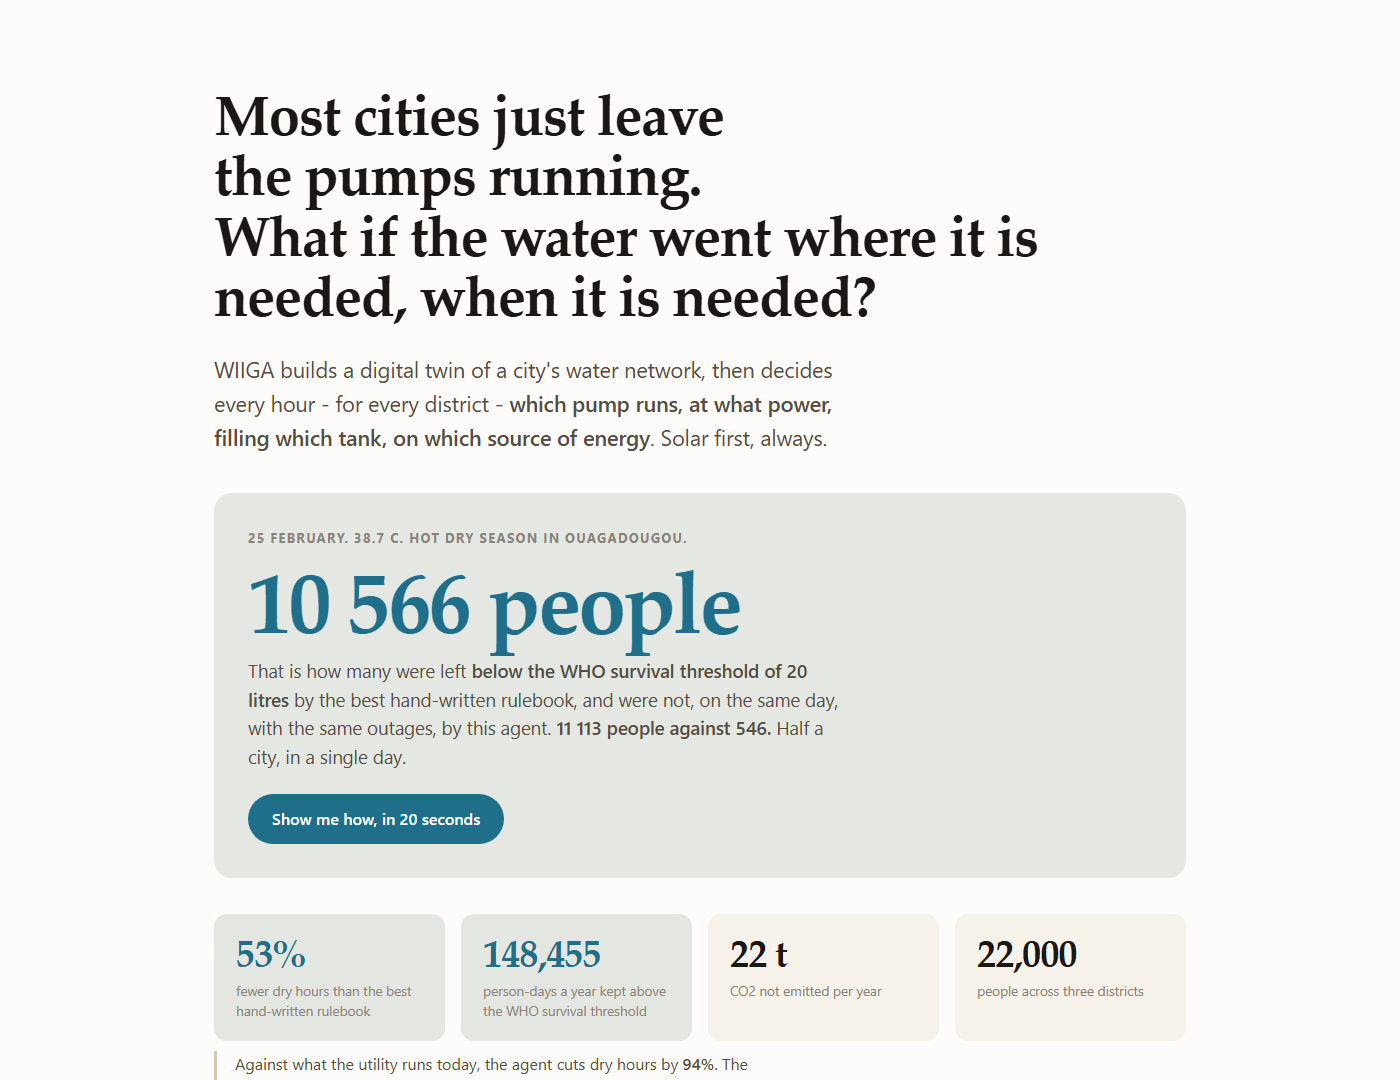
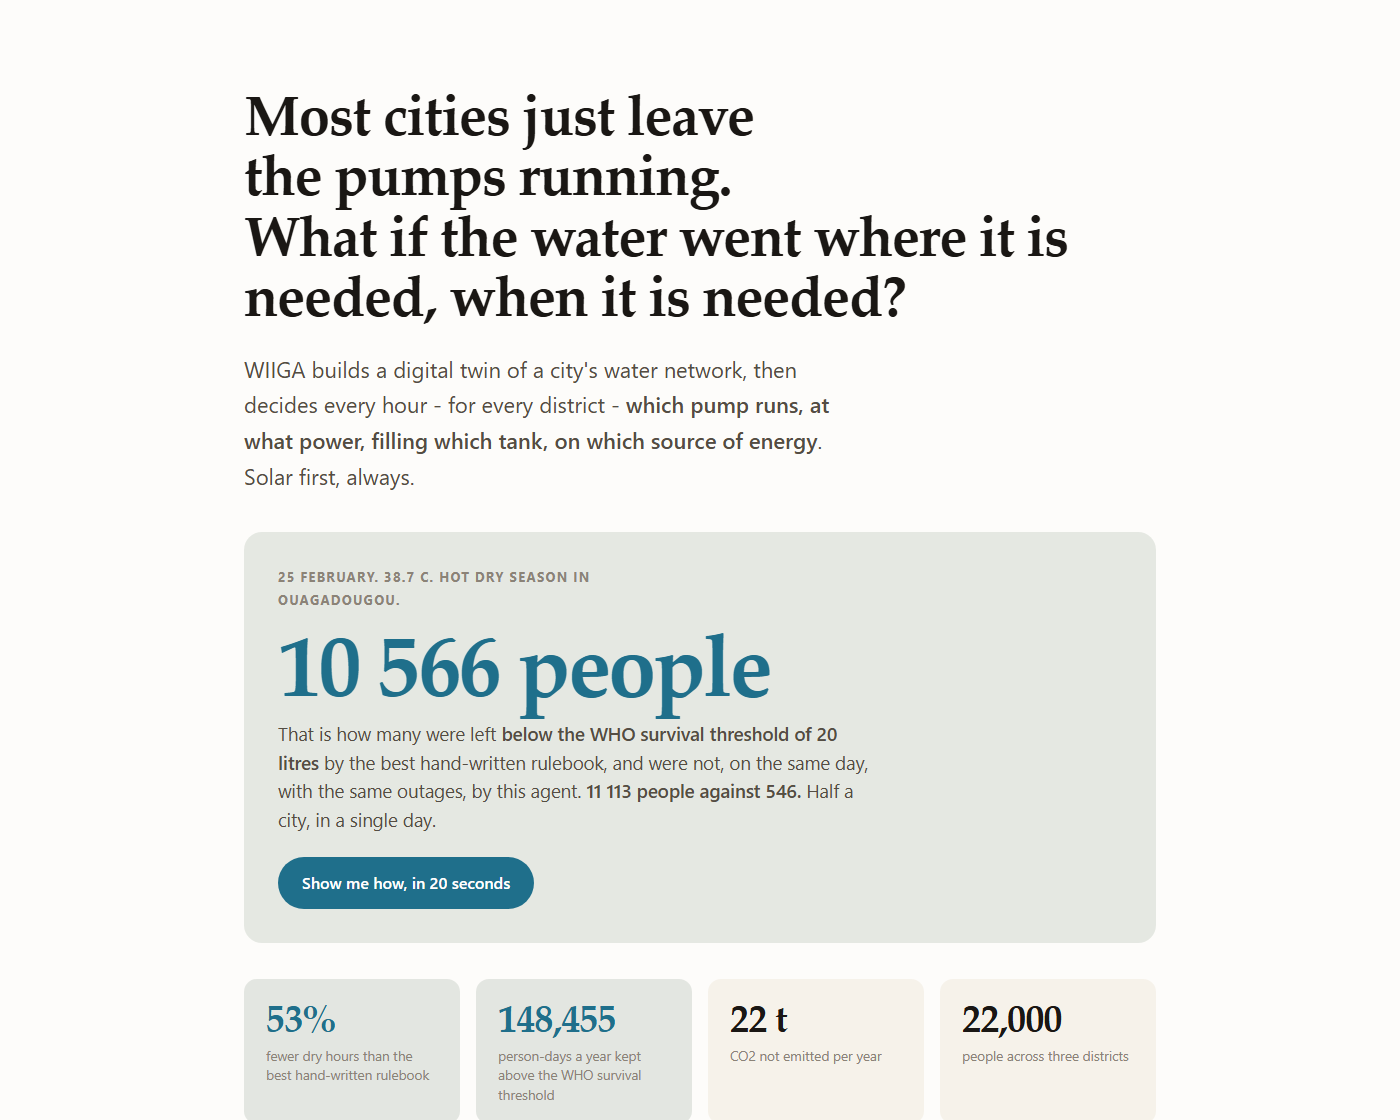
Rendre tout lisible par un humain presse
Le pire obstacle etait invisible pour moi : les tableaux du README
affichaient les noms francais des politiques dans un document anglais. Un
lecteur tombait sur 'exploitant (consigne fixe)' au milieu d'une ligne de
chiffres. Traduits - 'what the utility runs today', 'hand-written
rulebook', 'WIIGA agent'.

Typographie : corps a 18 px, interligne 1,75, mesure ramenee a 58
caracteres, tableaux et legendes agrandis, respiration doublee entre les
sections.

Et les trois paragraphes les plus denses coupes en respirations courtes -
la parole, les saisons, le jumeau. Une idee par paragraphe, les chiffres
en gras au debut de la phrase et pas noyes au milieu.

diff --git a/demo/gabarit.html b/demo/gabarit.html
@@ -20,24 +20,26 @@
   *{box-sizing:border-box}
   html{scroll-behavior:smooth}
   body{margin:0;background:var(--paper);color:var(--ink);font-family:var(--sans);
-       font-size:17px;line-height:1.68;-webkit-font-smoothing:antialiased}
-  .sheet{max-width:1060px;margin:0 auto;padding:clamp(36px,6vw,88px) clamp(20px,4vw,44px) 120px}
+       font-size:18px;line-height:1.75;-webkit-font-smoothing:antialiased;
+       text-rendering:optimizeLegibility}
+  .sheet{max-width:1000px;margin:0 auto;padding:clamp(36px,6vw,88px) clamp(20px,4vw,44px) 120px}
 
   h1{font-family:var(--serif);font-weight:600;font-size:clamp(32px,5.6vw,56px);
      line-height:1.08;letter-spacing:-.021em;margin:0 0 .46em;text-wrap:balance}
-  h2{font-family:var(--serif);font-weight:600;font-size:clamp(23px,3.2vw,33px);
-     line-height:1.18;margin:0 0 .5em;letter-spacing:-.012em;text-wrap:balance}
+  h2{font-family:var(--serif);font-weight:600;font-size:clamp(25px,3.4vw,36px);
+     line-height:1.16;margin:0 0 .62em;letter-spacing:-.014em;text-wrap:balance}
   h3{font-size:12.5px;text-transform:uppercase;letter-spacing:.12em;
      color:var(--ink-3);font-weight:650;margin:0 0 14px}
-  p{margin:0 0 1.15em;max-width:66ch}
-  .lede{font-size:clamp(18px,2.1vw,21.5px);color:var(--ink-2);max-width:58ch;line-height:1.6}
+  p{margin:0 0 1.35em;max-width:58ch}
+  .lede{font-size:clamp(19px,2.1vw,22px);color:var(--ink-2);max-width:52ch;
+        line-height:1.62}
   b,strong{font-weight:640}
   a{color:var(--water);text-underline-offset:3px}
   code{font-family:var(--mono);font-size:.87em;background:var(--paper-2);
        padding:.14em .4em;border-radius:5px}
-  section{margin:clamp(64px,9vw,112px) 0 0;padding-top:clamp(32px,4vw,48px);
+  section{margin:clamp(76px,10vw,128px) 0 0;padding-top:clamp(40px,5vw,60px);
           border-top:1px solid var(--rule)}
-  .quiet{color:var(--ink-3);font-size:14.5px;max-width:70ch}
+  .quiet{color:var(--ink-3);font-size:15.5px;max-width:60ch;line-height:1.65}
 
   /* ---------- headline numbers ---------- */
   .figs{display:grid;gap:16px;margin:36px 0 10px;
@@ -103,13 +105,15 @@
 
   svg{display:block;width:100%;height:auto;overflow:visible}
   figure{margin:26px 0}
-  figcaption{font-size:14px;color:var(--ink-3);margin-top:12px;max-width:70ch}
+  figcaption{font-size:15px;color:var(--ink-3);margin-top:14px;max-width:62ch;
+           line-height:1.6}
 
   /* ---------- tables ---------- */
   .scroll{overflow-x:auto;-webkit-overflow-scrolling:touch;margin:8px 0}
-  table{border-collapse:collapse;width:100%;font-size:14.5px;min-width:540px}
-  caption{text-align:left;font-size:14px;color:var(--ink-3);margin-bottom:12px;max-width:72ch}
-  th,td{padding:10px 13px;border-bottom:1px solid var(--rule);text-align:right;
+  table{border-collapse:collapse;width:100%;font-size:15.5px;min-width:540px}
+  caption{text-align:left;font-size:15px;color:var(--ink-3);margin-bottom:16px;
+         max-width:62ch;line-height:1.55}
+  th,td{padding:13px 15px;border-bottom:1px solid var(--rule);text-align:right;
         font-variant-numeric:tabular-nums}
   th:first-child,td:first-child{text-align:left;font-variant-numeric:normal}
   thead th{font-size:12px;text-transform:uppercase;letter-spacing:.07em;
@@ -120,8 +124,9 @@
 
   pre{background:var(--paper-2);border-radius:12px;padding:18px 20px;overflow-x:auto;
       font-family:var(--mono);font-size:13.5px;line-height:1.75;margin:0 0 16px}
-  .note{border-left:3px solid var(--rule-2);padding-left:18px;color:var(--ink-2);font-size:16px}
-  ul{max-width:66ch;padding-left:1.2em} li{margin-bottom:.6em}
+  .note{border-left:3px solid var(--rule-2);padding-left:20px;color:var(--ink-2);
+       font-size:17px;max-width:58ch;line-height:1.65}
+  ul{max-width:58ch;padding-left:1.25em} li{margin-bottom:.85em}
   footer{margin-top:96px;padding-top:28px;border-top:1px solid var(--rule);
          font-size:14px;color:var(--ink-3)}
 </style>
@@ -228,12 +233,16 @@ Everything below is regenerated by a command - no figure is typed by hand.</p>
 <!-- ==================== SEASONS ==================== -->
 <section id="saisons">
   <h2>The average hides the problem</h2>
-  <p>Ouagadougou does not have one water problem, it has three. In April it is
-  39.8&nbsp;°C, demand is up a quarter, and the grid fails every evening - but the
-  sky is clear, so the tank-as-battery works. In August it is 30.1&nbsp;°C and it
-  rains 8.7&nbsp;mm a day: demand falls, and so does the sunshine the battery
-  depends on. The two seasons want opposite policies, which is why no fixed
-  setting holds both.</p>
+  <p>Ouagadougou does not have one water problem. It has three.</p>
+
+  <p><b>April: 39.8&nbsp;°C.</b> Demand is up a quarter and the grid fails every
+  evening - but the sky is clear, so the tank-as-battery works.</p>
+
+  <p><b>August: 30.1&nbsp;°C and 8.7&nbsp;mm of rain a day.</b> Demand falls, and
+  so does the sunshine the battery depends on.</p>
+
+  <p>The two seasons want opposite policies. That is why no fixed setting holds
+  both.</p>
   <div class="scroll"><table id="seasons"></table></div>
 </section>
 
@@ -245,13 +254,19 @@ Everything below is regenerated by a command - no figure is typed by hand.</p>
   water at home. Here every household has containers, and one sentence at
   5&nbsp;p.m. moves more water than an hour of diesel.</p>
 
-  <p>It is not a free button. Warning <b>moves demand forward, it does not remove
-  it</b> - the tank is under more strain in the following hour, less during the
-  cut, and the daily volume is conserved exactly. And a false alarm costs no fuel
-  and no money: it costs <b>being listened to</b>. A correct warning buys
-  <b>+0.04</b> of the city's trust, a false one costs <b>-0.15</b>. That asymmetry
-  alone fixes a break-even accuracy of <b>78.9&nbsp;%</b> - no penalty term forbids
-  chatter, it is simply a losing bet, and the agent has to work that out.</p>
+  <p>It is not a free button.</p>
+
+  <p><b>Warning moves demand forward. It does not remove it.</b> The tank is under
+  more strain in the following hour, less during the cut, and the day's volume is
+  conserved exactly.</p>
+
+  <p>And a false alarm costs no fuel and no money. It costs <b>being listened
+  to</b>. A correct warning buys <b>+0.04</b> of the city's trust; a false one
+  costs <b>-0.15</b>.</p>
+
+  <p>That asymmetry alone fixes a break-even accuracy of <b>78.9&nbsp;%</b>. No
+  penalty term forbids chatter - it is simply a losing bet, and the agent has to
+  work that out.</p>
 
   <div class="scroll"><table id="speech"></table></div>
 </section>
@@ -276,14 +291,17 @@ Everything below is regenerated by a command - no figure is typed by hand.</p>
 <!-- ==================== TWIN ==================== -->
 <section id="beton">
   <h2>How much concrete does it replace?</h2>
-  <p>The simulator is a <b>digital twin</b> of the network - tanks, pumps,
-  sources, a failing grid, demand that follows heat and holidays, calibrated on
-  three years of measured daily records. You do not connect an agent to a city's
-  water supply without one.</p>
-  <p>But a twin is also useful on its own: it answers capital questions before
-  anyone pours anything. So we ask the one a utility director actually asks -
-  <i>how much bigger would the tanks have to be for the rulebook to serve the
-  city as well as the agent serves it with the tanks we already have?</i></p>
+  <p>The simulator is a <b>digital twin</b> of the network: tanks, pumps, sources,
+  a failing grid, and demand that follows heat and holidays - calibrated on three
+  years of measured daily records.</p>
+
+  <p>You do not connect an agent to a city's water supply without one.</p>
+
+  <p>But a twin is useful on its own. It answers capital questions before anyone
+  pours anything, so we asked the one a utility director actually asks:</p>
+
+  <p class="lede"><i>How much bigger would the tanks have to be for the rulebook
+  to serve the city as well as the agent does with the tanks we already have?</i></p>
   <figure>
     <svg id="equiv" viewBox="0 0 700 250" role="img"
          aria-label="Dry hours per day for the rulebook as tank capacity increases, against the agent's level"></svg>

diff --git a/docs/index.html b/docs/index.html
@@ -20,24 +20,26 @@
   *{box-sizing:border-box}
   html{scroll-behavior:smooth}
   body{margin:0;background:var(--paper);color:var(--ink);font-family:var(--sans);
-       font-size:17px;line-height:1.68;-webkit-font-smoothing:antialiased}
-  .sheet{max-width:1060px;margin:0 auto;padding:clamp(36px,6vw,88px) clamp(20px,4vw,44px) 120px}
+       font-size:18px;line-height:1.75;-webkit-font-smoothing:antialiased;
+       text-rendering:optimizeLegibility}
+  .sheet{max-width:1000px;margin:0 auto;padding:clamp(36px,6vw,88px) clamp(20px,4vw,44px) 120px}
 
   h1{font-family:var(--serif);font-weight:600;font-size:clamp(32px,5.6vw,56px);
      line-height:1.08;letter-spacing:-.021em;margin:0 0 .46em;text-wrap:balance}
-  h2{font-family:var(--serif);font-weight:600;font-size:clamp(23px,3.2vw,33px);
-     line-height:1.18;margin:0 0 .5em;letter-spacing:-.012em;text-wrap:balance}
+  h2{font-family:var(--serif);font-weight:600;font-size:clamp(25px,3.4vw,36px);
+     line-height:1.16;margin:0 0 .62em;letter-spacing:-.014em;text-wrap:balance}
   h3{font-size:12.5px;text-transform:uppercase;letter-spacing:.12em;
      color:var(--ink-3);font-weight:650;margin:0 0 14px}
-  p{margin:0 0 1.15em;max-width:66ch}
-  .lede{font-size:clamp(18px,2.1vw,21.5px);color:var(--ink-2);max-width:58ch;line-height:1.6}
+  p{margin:0 0 1.35em;max-width:58ch}
+  .lede{font-size:clamp(19px,2.1vw,22px);color:var(--ink-2);max-width:52ch;
+        line-height:1.62}
   b,strong{font-weight:640}
   a{color:var(--water);text-underline-offset:3px}
   code{font-family:var(--mono);font-size:.87em;background:var(--paper-2);
        padding:.14em .4em;border-radius:5px}
-  section{margin:clamp(64px,9vw,112px) 0 0;padding-top:clamp(32px,4vw,48px);
+  section{margin:clamp(76px,10vw,128px) 0 0;padding-top:clamp(40px,5vw,60px);
           border-top:1px solid var(--rule)}
-  .quiet{color:var(--ink-3);font-size:14.5px;max-width:70ch}
+  .quiet{color:var(--ink-3);font-size:15.5px;max-width:60ch;line-height:1.65}
 
   /* ---------- headline numbers ---------- */
   .figs{display:grid;gap:16px;margin:36px 0 10px;
@@ -103,13 +105,15 @@
 
   svg{display:block;width:100%;height:auto;overflow:visible}
   figure{margin:26px 0}
-  figcaption{font-size:14px;color:var(--ink-3);margin-top:12px;max-width:70ch}
+  figcaption{font-size:15px;color:var(--ink-3);margin-top:14px;max-width:62ch;
+           line-height:1.6}
 
   /* ---------- tables ---------- */
   .scroll{overflow-x:auto;-webkit-overflow-scrolling:touch;margin:8px 0}
-  table{border-collapse:collapse;width:100%;font-size:14.5px;min-width:540px}
-  caption{text-align:left;font-size:14px;color:var(--ink-3);margin-bottom:12px;max-width:72ch}
-  th,td{padding:10px 13px;border-bottom:1px solid var(--rule);text-align:right;
+  table{border-collapse:collapse;width:100%;font-size:15.5px;min-width:540px}
+  caption{text-align:left;font-size:15px;color:var(--ink-3);margin-bottom:16px;
+         max-width:62ch;line-height:1.55}
+  th,td{padding:13px 15px;border-bottom:1px solid var(--rule);text-align:right;
         font-variant-numeric:tabular-nums}
   th:first-child,td:first-child{text-align:left;font-variant-numeric:normal}
   thead th{font-size:12px;text-transform:uppercase;letter-spacing:.07em;
@@ -120,8 +124,9 @@
 
   pre{background:var(--paper-2);border-radius:12px;padding:18px 20px;overflow-x:auto;
       font-family:var(--mono);font-size:13.5px;line-height:1.75;margin:0 0 16px}
-  .note{border-left:3px solid var(--rule-2);padding-left:18px;color:var(--ink-2);font-size:16px}
-  ul{max-width:66ch;padding-left:1.2em} li{margin-bottom:.6em}
+  .note{border-left:3px solid var(--rule-2);padding-left:20px;color:var(--ink-2);
+       font-size:17px;max-width:58ch;line-height:1.65}
+  ul{max-width:58ch;padding-left:1.25em} li{margin-bottom:.85em}
   footer{margin-top:96px;padding-top:28px;border-top:1px solid var(--rule);
          font-size:14px;color:var(--ink-3)}
 </style>
@@ -228,12 +233,16 @@ Everything below is regenerated by a command - no figure is typed by hand.</p>
 <!-- ==================== SEASONS ==================== -->
 <section id="saisons">
   <h2>The average hides the problem</h2>
-  <p>Ouagadougou does not have one water problem, it has three. In April it is
-  39.8&nbsp;°C, demand is up a quarter, and the grid fails every evening - but the
-  sky is clear, so the tank-as-battery works. In August it is 30.1&nbsp;°C and it
-  rains 8.7&nbsp;mm a day: demand falls, and so does the sunshine the battery
-  depends on. The two seasons want opposite policies, which is why no fixed
-  setting holds both.</p>
+  <p>Ouagadougou does not have one water problem. It has three.</p>
+
+  <p><b>April: 39.8&nbsp;°C.</b> Demand is up a quarter and the grid fails every
+  evening - but the sky is clear, so the tank-as-battery works.</p>
+
+  <p><b>August: 30.1&nbsp;°C and 8.7&nbsp;mm of rain a day.</b> Demand falls, and
+  so does the sunshine the battery depends on.</p>
+
+  <p>The two seasons want opposite policies. That is why no fixed setting holds
+  both.</p>
   <div class="scroll"><table id="seasons"></table></div>
 </section>
 
@@ -245,13 +254,19 @@ Everything below is regenerated by a command - no figure is typed by hand.</p>
   water at home. Here every household has containers, and one sentence at
   5&nbsp;p.m. moves more water than an hour of diesel.</p>
 
-  <p>It is not a free button. Warning <b>moves demand forward, it does not remove
-  it</b> - the tank is under more strain in the following hour, less during the
-  cut, and the daily volume is conserved exactly. And a false alarm costs no fuel
-  and no money: it costs <b>being listened to</b>. A correct warning buys
-  <b>+0.04</b> of the city's trust, a false one costs <b>-0.15</b>. That asymmetry
-  alone fixes a break-even accuracy of <b>78.9&nbsp;%</b> - no penalty term forbids
-  chatter, it is simply a losing bet, and the agent has to work that out.</p>
+  <p>It is not a free button.</p>
+
+  <p><b>Warning moves demand forward. It does not remove it.</b> The tank is under
+  more strain in the following hour, less during the cut, and the day's volume is
+  conserved exactly.</p>
+
+  <p>And a false alarm costs no fuel and no money. It costs <b>being listened
+  to</b>. A correct warning buys <b>+0.04</b> of the city's trust; a false one
+  costs <b>-0.15</b>.</p>
+
+  <p>That asymmetry alone fixes a break-even accuracy of <b>78.9&nbsp;%</b>. No
+  penalty term forbids chatter - it is simply a losing bet, and the agent has to
+  work that out.</p>
 
   <div class="scroll"><table id="speech"></table></div>
 </section>
@@ -276,14 +291,17 @@ Everything below is regenerated by a command - no figure is typed by hand.</p>
 <!-- ==================== TWIN ==================== -->
 <section id="beton">
   <h2>How much concrete does it replace?</h2>
-  <p>The simulator is a <b>digital twin</b> of the network - tanks, pumps,
-  sources, a failing grid, demand that follows heat and holidays, calibrated on
-  three years of measured daily records. You do not connect an agent to a city's
-  water supply without one.</p>
-  <p>But a twin is also useful on its own: it answers capital questions before
-  anyone pours anything. So we ask the one a utility director actually asks -
-  <i>how much bigger would the tanks have to be for the rulebook to serve the
-  city as well as the agent serves it with the tanks we already have?</i></p>
+  <p>The simulator is a <b>digital twin</b> of the network: tanks, pumps, sources,
+  a failing grid, and demand that follows heat and holidays - calibrated on three
+  years of measured daily records.</p>
+
+  <p>You do not connect an agent to a city's water supply without one.</p>
+
+  <p>But a twin is useful on its own. It answers capital questions before anyone
+  pours anything, so we asked the one a utility director actually asks:</p>
+
+  <p class="lede"><i>How much bigger would the tanks have to be for the rulebook
+  to serve the city as well as the agent does with the tanks we already have?</i></p>
   <figure>
     <svg id="equiv" viewBox="0 0 700 250" role="img"
          aria-label="Dry hours per day for the rulebook as tank capacity increases, against the agent's level"></svg>

diff --git a/wiiga/rapport.py b/wiiga/rapport.py
@@ -33,6 +33,22 @@ FIN = "<!-- chiffres:fin -->"
 
 SAISONS = ("sèche chaude", "pluies", "sèche tempérée")
 
+#: Les politiques portent des noms francais dans le code, parce que le code est
+#: francais. Le README est anglais : les laisser tels quels obligeait un lecteur
+#: a dechiffrer "exploitant (consigne fixe)" au milieu d'un tableau, ce qui est
+#: exactement le genre de friction qui fait sauter une ligne.
+NOMS = {
+    "exploitant (consigne fixe)": "what the utility runs today",
+    "moins cher (sans prévision)": "cheapest source, no forecast",
+    "prévoyant (règle écrite)": "hand-written rulebook",
+    "agent WIIGA (PPO)": "WIIGA agent",
+    "agent WIIGA, sans la parole": "WIIGA, not allowed to speak",
+}
+
+
+def _nom(cle: str) -> str:
+    return NOMS.get(cle, cle)
+
 
 def _fr(x: float, decimales: int = 0) -> str:
     """Un nombre lisible : espace fine pour les milliers, virgule décimale."""
@@ -50,7 +66,7 @@ def tableau_principal(d: dict) -> list[str]:
     for nom, v in m.items():
         gras = "**" if nom.startswith("agent WIIGA (") else ""
         lignes.append(
-            f"| {gras}{nom}{gras} | {_fr(v['heures_a_sec_par_jour'], 2)} "
+            f"| {gras}{_nom(nom)}{gras} | {_fr(v['heures_a_sec_par_jour'], 2)} "
             f"| {v['jours_avec_coupure_sur_200']} | {_fr(v['fcfa_par_jour'])} "
             f"| {_fr(v['litres_gasoil_par_jour'], 1)} "
             f"| {_fr(v['kg_co2_par_jour'], 1)} | {_fr(v['creux_moyen'], 2)} |"
@@ -72,7 +88,7 @@ def tableau_saisons(d: dict) -> list[str]:
         cases = " | ".join(
             _fr(v["heures_a_sec_par_saison"][s], 2) for s in presentes
         )
-        lignes.append(f"| {gras}{nom}{gras} | {cases} |")
+        lignes.append(f"| {gras}{_nom(nom)}{gras} | {cases} |")
     return lignes
 
 
@@ -86,7 +102,7 @@ def tableau_parole(d: dict) -> list[str]:
         if v["alertes_par_jour"] == 0 and not nom.startswith("agent"):
             continue
         lignes.append(
-            f"| {nom} | {_fr(v['alertes_par_jour'], 2)} "
+            f"| {_nom(nom)} | {_fr(v['alertes_par_jour'], 2)} "
             f"| {_fr(v['justesse_alertes'] * 100)} % "
             f"| {_fr(v['confiance_finale'], 2)} |"
         )

diff --git a/README.md b/README.md
@@ -199,21 +199,21 @@ cached to `villes/` so the demo runs offline afterwards.
 
 | operator | dry hours / day | dry days / 200 | local currency / day | L diesel / day | kg CO2 / day | tank low point |
 |---|---:|---:|---:|---:|---:|---:|
-| exploitant (consigne fixe) | 2,48 | 77 | 961 761 | 77,0 | 206,4 | 0,27 |
-| moins cher (sans prévision) | 0,40 | 30 | 324 656 | 61,2 | 164,0 | 0,41 |
-| prévoyant (règle écrite) | 0,33 | 26 | 321 557 | 62,8 | 168,3 | 0,43 |
-| **agent WIIGA (PPO)** | 0,16 | 15 | 268 745 | 39,9 | 106,8 | 0,26 |
-| agent WIIGA, sans la parole | 0,23 | 20 | 290 705 | 47,4 | 127,1 | 0,25 |
+| what the utility runs today | 2,48 | 77 | 961 761 | 77,0 | 206,4 | 0,27 |
+| cheapest source, no forecast | 0,40 | 30 | 324 656 | 61,2 | 164,0 | 0,41 |
+| hand-written rulebook | 0,33 | 26 | 321 557 | 62,8 | 168,3 | 0,43 |
+| **WIIGA agent** | 0,16 | 15 | 268 745 | 39,9 | 106,8 | 0,26 |
+| WIIGA, not allowed to speak | 0,23 | 20 | 290 705 | 47,4 | 127,1 | 0,25 |
 
 ### The same table, season by season - dry hours per day
 
 | operator | hot dry | rainy | mild dry |
 |---|---:|---:|---:|
-| exploitant (consigne fixe) | 7,09 | 0,09 | 1,24 |
-| moins cher (sans prévision) | 1,33 | 0,01 | 0,08 |
-| prévoyant (règle écrite) | 1,11 | 0,01 | 0,06 |
-| **agent WIIGA (PPO)** | 0,40 | 0,02 | 0,10 |
-| agent WIIGA, sans la parole | 0,71 | 0,02 | 0,07 |
+| what the utility runs today | 7,09 | 0,09 | 1,24 |
+| cheapest source, no forecast | 1,33 | 0,01 | 0,08 |
+| hand-written rulebook | 1,11 | 0,01 | 0,06 |
+| **WIIGA agent** | 0,40 | 0,02 | 0,10 |
+| WIIGA, not allowed to speak | 0,71 | 0,02 | 0,07 |
 
 The annual average hides the point: the hand-written rules give way in the
 hot dry season, which is exactly when the city is thirstiest.
@@ -222,8 +222,8 @@ hot dry season, which is exactly when the city is thirstiest.
 
 | operator | warnings / day | accuracy | trust at the end |
 |---|---:|---:|---:|
-| agent WIIGA (PPO) | 0,70 | 96 % | 1,00 |
-| agent WIIGA, sans la parole | 0,00 | 0 % | 0,55 |
+| WIIGA agent | 0,70 | 96 % | 1,00 |
+| WIIGA, not allowed to speak | 0,00 | 0 % | 0,55 |
 
 ### At a glance
 
